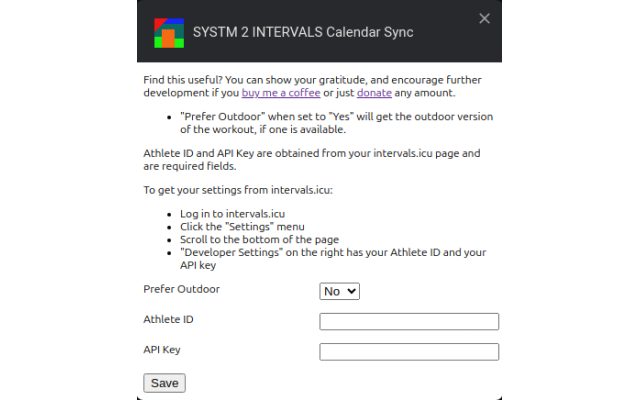
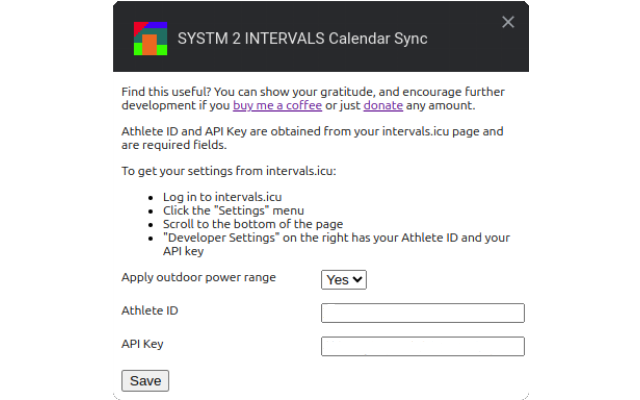
Merged PR 42: v0.0.0.10
- Use UTC times to send to intervals.icu as local time

Changed region(s): [[0.1562, 0.0, 0.8438, 0.9], [0.1875, 0.84, 0.3125, 1.0]]

diff --git a/src/background/intervalsicu.js b/src/background/intervalsicu.js
@@ -75,7 +75,7 @@ const icuApiUris = {
 
 function formatDateForApi(value) {
   let theDate = new Date(value);
-  return theDate.getFullYear() + '-' + (theDate.getMonth() + 1) + '-' + theDate.getDate() + 'T00:00:00';
+  return theDate.getUTCFullYear() + '-' + (theDate.getUTCMonth() + 1).toString().padStart(2, '0') + '-' + theDate.getUTCDate().toString().padStart(2, '0') + 'T00:00:00';
 }
 
 function callIcuApi(icuApiUri, athleteId, token, message, queryString) {

diff --git a/src/popup/popup.html b/src/popup/popup.html
@@ -62,7 +62,7 @@
   <dialog id="noTokenDialog">
     <form method="dialog">
       <p>No SYSTM login token.</p>
-      <p>Go to the calendar page in SYSTM and login.</p>
+      <p>Go to the calendar page in SYSTM and refresh the page.</p>
       <button>OK</button>
     </form>
   </dialog>
